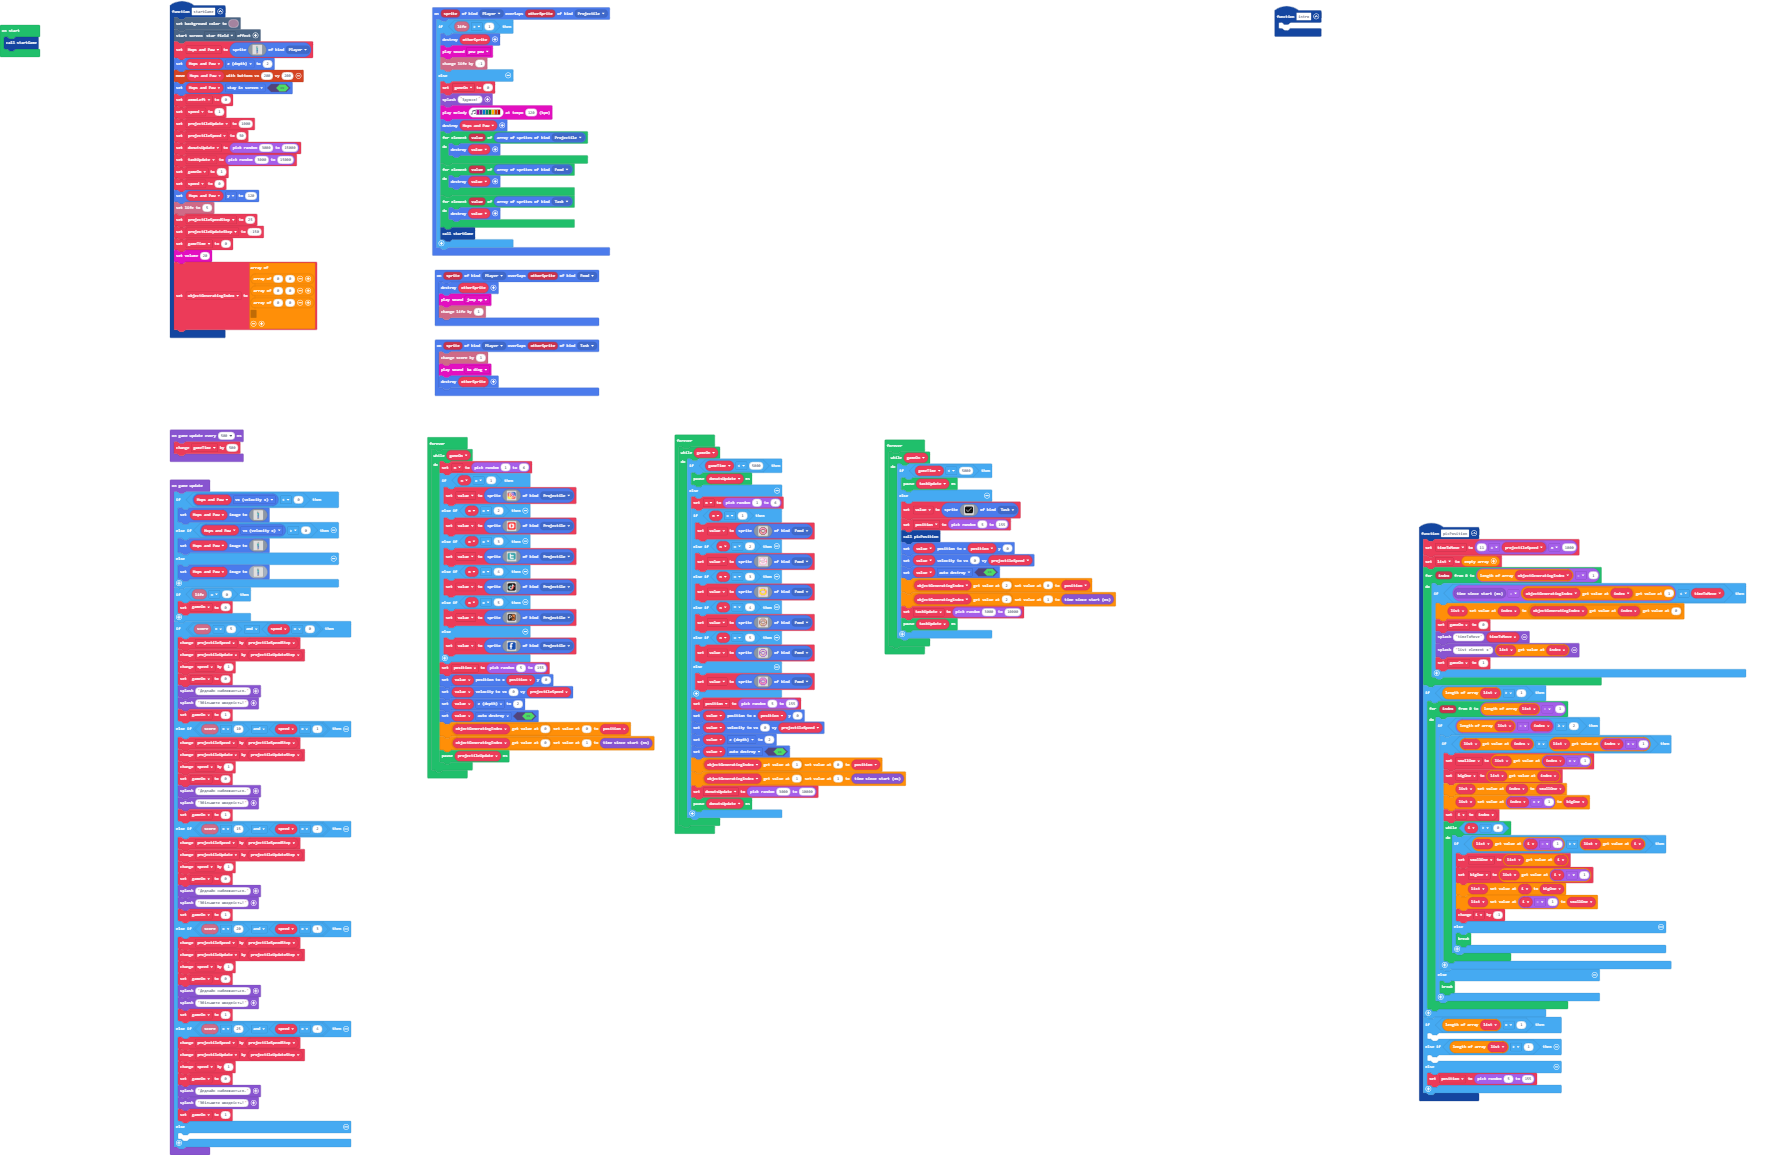
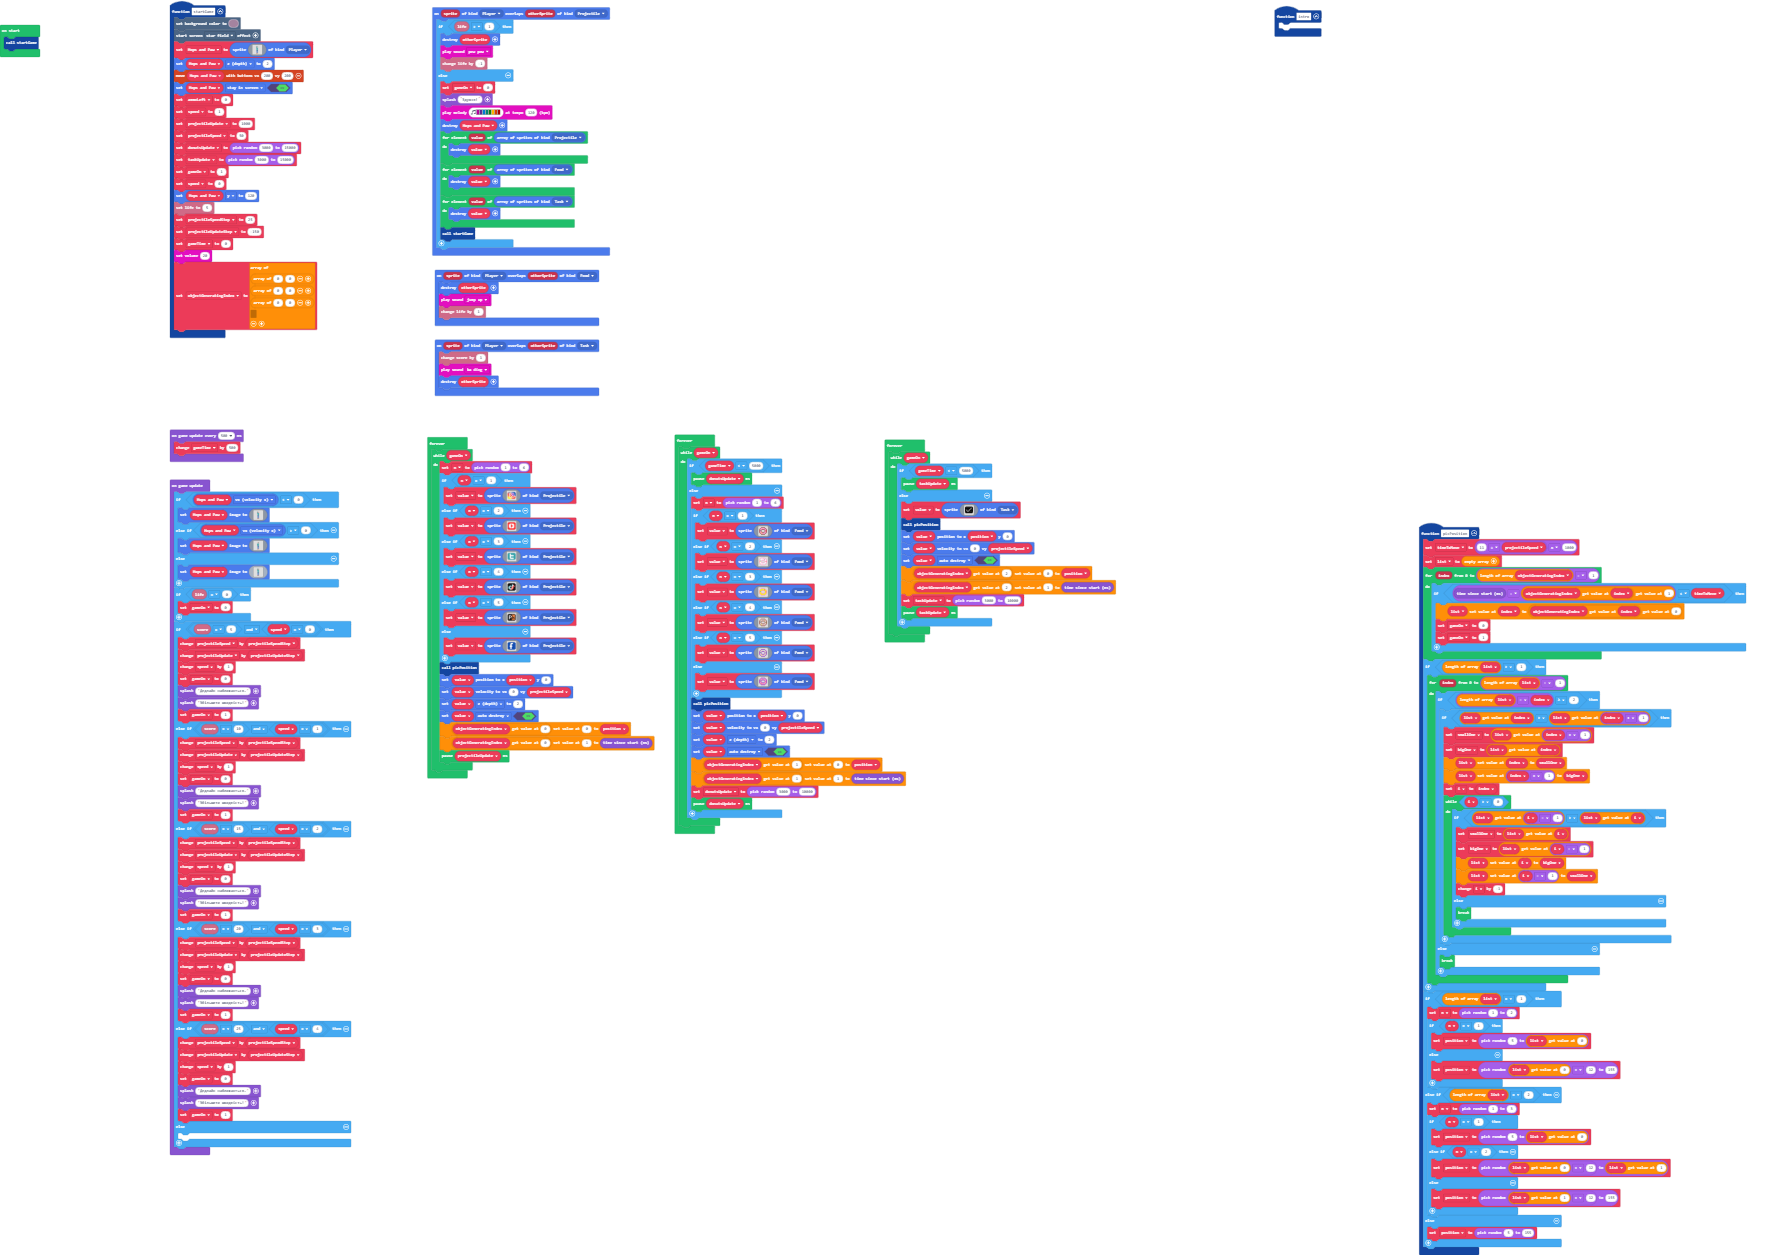
Update main.blocks, main.ts

diff --git a/main.ts b/main.ts
@@ -68,8 +68,6 @@ function picPosition () {
         if (game.runtime() - objectGeneratingIndex[index][1] < timeToMove) {
             list[index] = objectGeneratingIndex[index][0]
             gameOn = 0
-            game.splash("timeToMove", timeToMove)
-            game.splash("list element x", list[index])
             gameOn = 1
         }
     }
@@ -100,9 +98,21 @@ function picPosition () {
         }
     }
     if (list.length == 1) {
-    	
-    } else if (list.length > 1) {
-    	
+        n = randint(1, 2)
+        if (n == 1) {
+            position = randint(5, list[0])
+        } else {
+            position = randint(list[0] + 12, 155)
+        }
+    } else if (list.length == 2) {
+        n = randint(1, 3)
+        if (n == 1) {
+            position = randint(5, list[0])
+        } else if (n == 2) {
+            position = randint(list[0] + 12, list[1])
+        } else {
+            position = randint(list[1] + 12, 155)
+        }
     } else {
         position = randint(5, 155)
     }
@@ -113,8 +123,8 @@ sprites.onOverlap(SpriteKind.Player, SpriteKind.Food, function (sprite, otherSpr
     info.changeLifeBy(1)
 })
 let value: Sprite = null
-let n = 0
 let position = 0
+let n = 0
 let i = 0
 let bigOne = 0
 let smallOne = 0
@@ -204,7 +214,7 @@ forever(function () {
         } else {
             value = sprites.create(assets.image`Facebook`, SpriteKind.Projectile)
         }
-        position = randint(5, 155)
+        picPosition()
         value.setPosition(position, 0)
         value.setVelocity(0, projectileSpeed)
         value.z = 2
@@ -233,7 +243,7 @@ forever(function () {
             } else {
                 value = sprites.create(assets.image`Donut 6`, SpriteKind.Food)
             }
-            position = randint(5, 155)
+            picPosition()
             value.setPosition(position, 0)
             value.setVelocity(0, projectileSpeed)
             value.z = 2
@@ -251,7 +261,6 @@ forever(function () {
             pause(taskUpdate)
         } else {
             value = sprites.create(assets.image`Task`, SpriteKind.Task)
-            position = randint(5, 155)
             picPosition()
             value.setPosition(position, 0)
             value.setVelocity(0, projectileSpeed)
